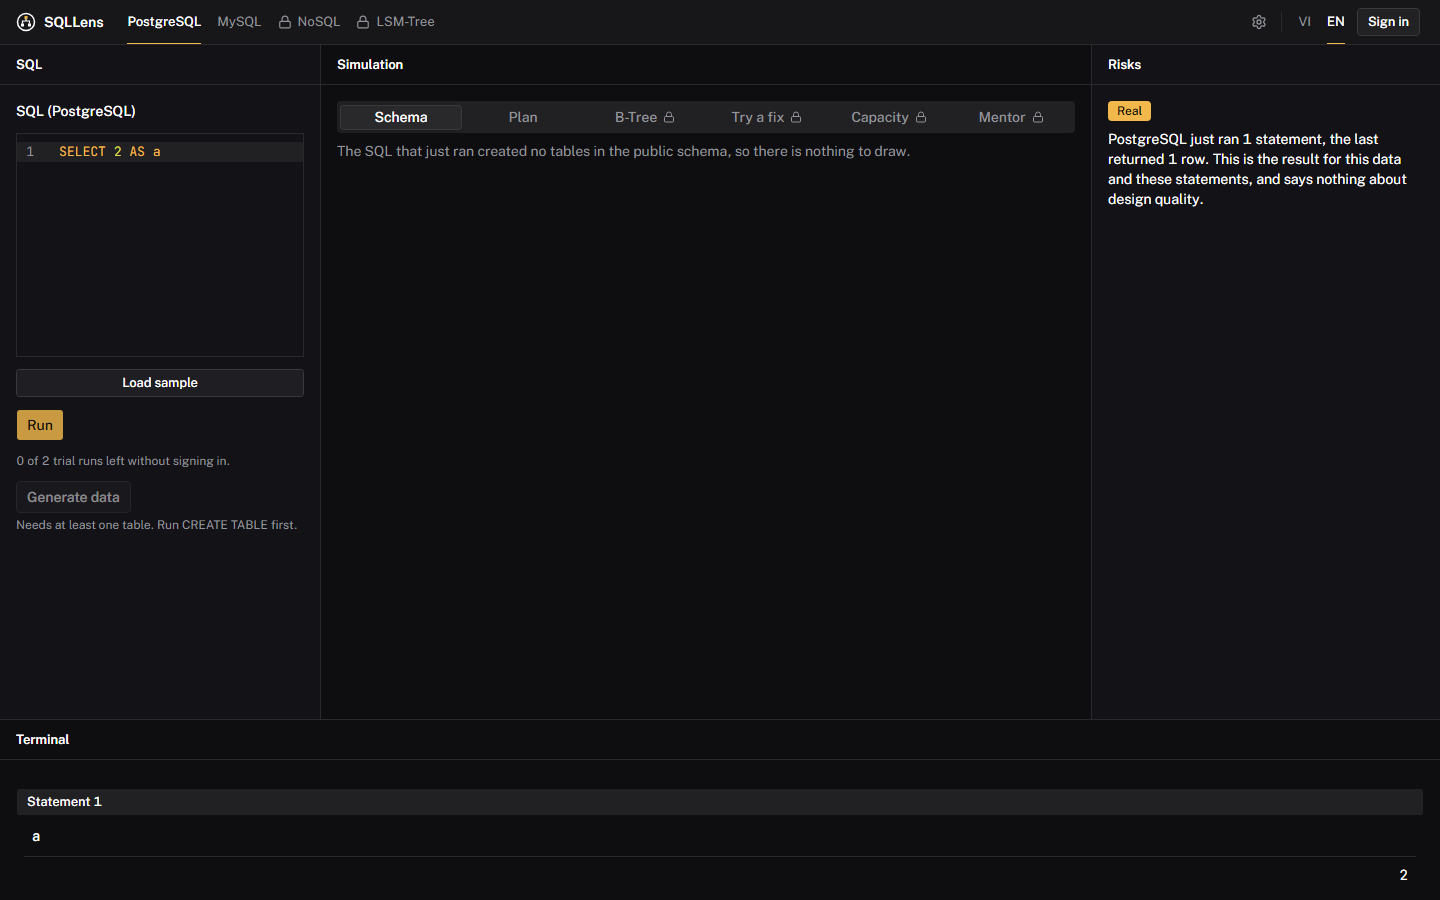
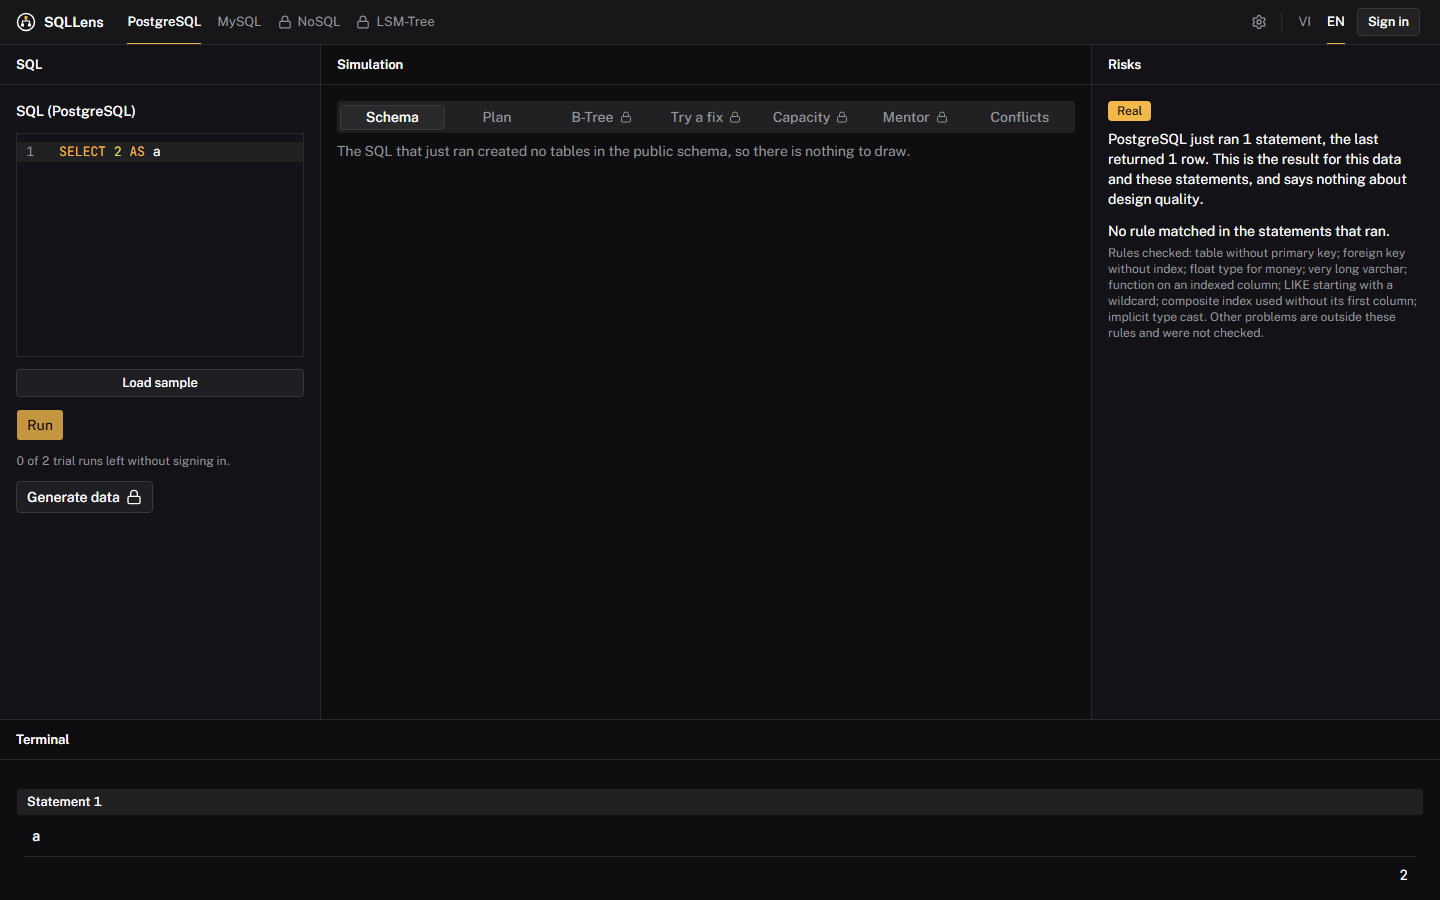
fix(Task066): thả busy khi cổng khách lỗi, sửa aria, test Thử lại; ảnh mới

diff --git a/web/e2e/login.spec.ts b/web/e2e/login.spec.ts
@@ -279,10 +279,10 @@ for (const l of ["vi", "en"] as const) {
       await mock(page, "anon");
       await page.setViewportSize({ width: 1440, height: 900 });
       let fail = true;
-      await page.route(/.wasm/, (r) => (fail ? r.abort() : r.continue()));
+      await page.route(/(pglite|initdb)[^/]*.wasm/, (r) => (fail ? r.abort() : r.continue()));
       await page.goto(`/${l}`);
       await run(page, l, "SELECT 1");
-      await expect(page.locator([data-testid=error]:visible)).toBeVisible({ timeout: 60_000 });
+      await expect(page.getByTestId("error").filter({ visible: true })).toBeVisible({ timeout: 60_000 });
       fail = false;
       await setSql(page, "DROP TABLE t");
       await page.getByRole("button", { name: l === "vi" ? "Thử lại" : "Retry" }).click();
@@ -297,7 +297,7 @@ for (const l of ["vi", "en"] as const) {
       await run(page, l, "CREATE TABLE t(id int); SELECT * FROM t;");
       await expect(done(page)).toBeVisible({ timeout: 60_000 });
       await stageTab(page, l === "vi" ? "Tranh chấp" : "Conflicts").click();
-      await expect(page.getByTestId("locked-tab").filter({ visible: true })).toHaveCount(0);
+      await expect(page.locator("#stage").getByTestId("locked-tab").filter({ visible: true })).toHaveCount(0);
     });
 
     test("AC5 hết lượt rồi Thử lại cũng bị chặn", async ({ page }) => {
@@ -306,12 +306,12 @@ for (const l of ["vi", "en"] as const) {
       await page.evaluate(() => localStorage.setItem("sqllens.guestRuns", "2"));
       await page.reload();
       let fail = true;
-      await page.route(/.wasm/, (r) => (fail ? r.abort() : r.continue()));
+      await page.route(/(pglite|initdb)[^/]*.wasm/, (r) => (fail ? r.abort() : r.continue()));
       // lượt đã hết nên bị chặn ngay ở lần Chạy; dùng lượt còn 1 để vào được lỗi tải
       await page.evaluate(() => localStorage.setItem("sqllens.guestRuns", "1"));
       await page.reload();
       await run(page, l, "SELECT 1");
-      await expect(page.locator([data-testid=error]:visible)).toBeVisible({ timeout: 60_000 });
+      await expect(page.getByTestId("error").filter({ visible: true })).toBeVisible({ timeout: 60_000 });
       await page.evaluate(() => localStorage.setItem("sqllens.guestRuns", "2")); // tab khác dùng nốt lượt
       fail = false;
       await page.getByRole("button", { name: l === "vi" ? "Thử lại" : "Retry" }).click();

diff --git a/web/src/modules/lab/lab-workspace.tsx b/web/src/modules/lab/lab-workspace.tsx
@@ -187,10 +187,13 @@ export function LabWorkspace() {
   async function run(schemaSql?: string) {
     if (busy.current) return;
     busy.current = true;
-    if (await guestBlocked()) {
-      busy.current = false;
-      return;
+    let blocked = true; // lỗi bất ngờ ở cổng thì coi như bị chặn và vẫn thả cờ busy
+    try {
+      blocked = await guestBlocked();
+    } finally {
+      if (blocked) busy.current = false;
     }
+    if (blocked) return;
     guestRun.current = authStatus === "anon" && engine === "postgres"; // tính lượt ở cuối lần chạy này, và chỉ lần này
     setStageRun(null);
     setMobileTab("terminal");
@@ -434,7 +437,7 @@ export function LabWorkspace() {
           variant="outline"
           onClick={() => (authStatus === "anon" ? setGenLock(true) : setGenOpen(true))}
           disabled={(!hasTables && authStatus !== "anon") || working || state.phase === "stopped" || mysql}
-          aria-describedby={hasTables ? undefined : "gen-hint"}
+          aria-describedby={hasTables || authStatus === "anon" ? undefined : "gen-hint"}
         >
           {tth("open")}
           {authStatus === "anon" && <Lock aria-hidden />}
